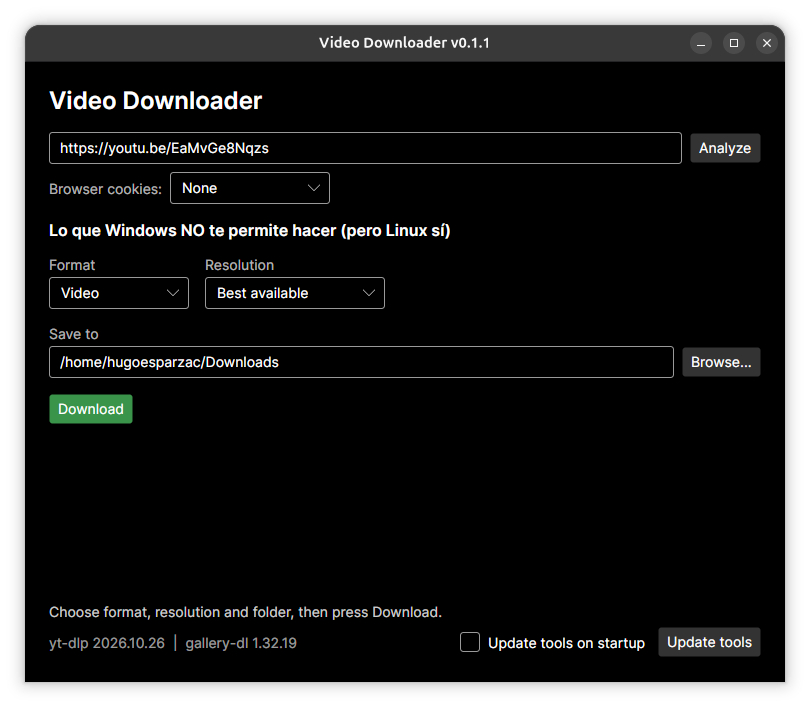
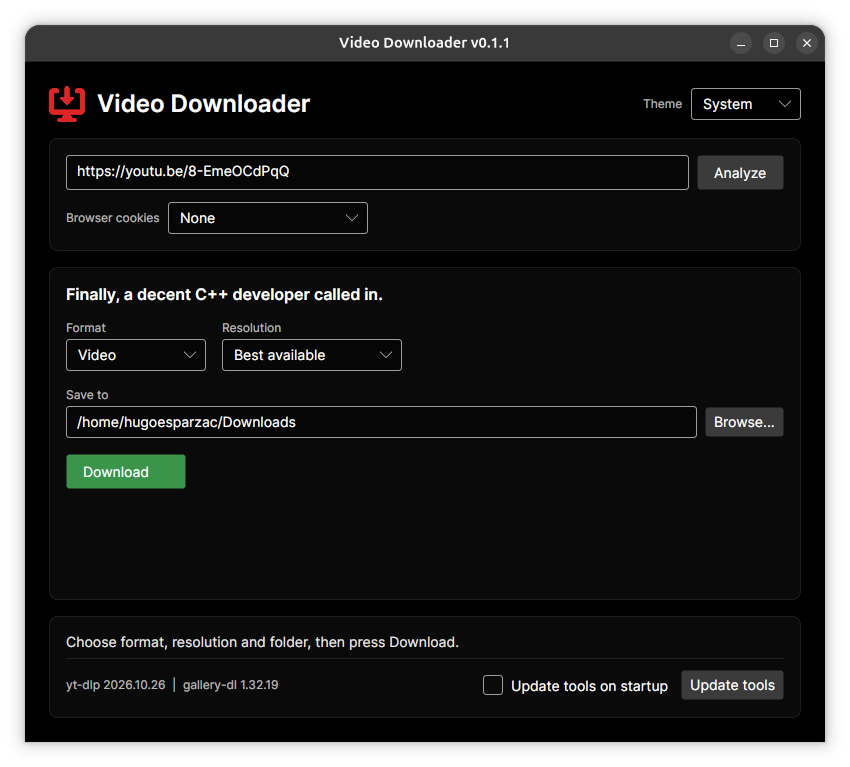
docs: add contributing guidelines and update project documentation
- Add a contributing guide with project contribution guidelines.
- Add GitHub issue and pull request templates.
- Update the README to document theme support.
- Add a link to the contributing guide in the README.

diff --git a/CONTRIBUTING.md b/CONTRIBUTING.md
@@ -1,0 +1,206 @@
+# Contributing to Video Downloader
+
+Thanks for your interest in improving Video Downloader! This guide explains how to set up the project, how the code is organized, and how to get a change merged.
+
+## Ways to contribute
+
+- **Report a bug** or a site that stopped working.
+- **Suggest a feature** or an improvement.
+- **Improve the docs** (README, this guide, translations of the UI).
+- **Send a pull request** with a fix or a new feature.
+
+For anything larger than a small fix, please open an issue first so we can agree on the approach before you spend time on it.
+
+## Reporting bugs
+
+Before opening an issue:
+
+1. Press **Update tools** in the app. yt-dlp and gallery-dl break regularly when sites change, and an update fixes most "it stopped working" reports.
+2. Check that the problem is not the sign-in requirement. Some content needs browser cookies (see the README). On Windows, Chrome, Edge and Brave cannot be read, so use Firefox.
+
+Then include in your issue:
+
+- App version (shown in the window title) and operating system.
+- What you did, what you expected and what happened.
+- The URL, if it is public. Do not share private links or anything that includes your account information.
+- The error message shown in the app.
+- If the app closed on its own, the crash log:
+  - Windows: `%LOCALAPPDATA%\VideoDownloader\logs\crash.log`
+  - Linux and macOS: `~/.local/share/VideoDownloader/logs/crash.log`
+
+Please review logs before posting them and remove personal data such as your user name in file paths.
+
+## Suggesting features
+
+Open an issue describing the problem you want to solve, not only the solution. Keep in mind the scope of the project: it is a friendly front end for yt-dlp and gallery-dl for personal use. Changes meant to bypass DRM or access controls will not be accepted.
+
+## Development setup
+
+### Requirements
+
+- The .NET SDK version specified in `global.json`.
+- Git.
+- Linux, Windows or macOS.
+
+### Getting the code
+
+```bash
+git clone https://github.com/hugoesparzac/VideoDownloader.git
+cd VideoDownloader
+dotnet tool restore
+dotnet husky install
+dotnet build
+dotnet test
+dotnet run --project src/VideoDownloader.App
+```
+
+`dotnet husky install` enables the git hooks described below. Please do not skip it, because the same checks run in CI and your pull request will fail without them.
+
+The first time the app runs it downloads yt-dlp and ffmpeg (and gallery-dl when needed) into your local data folder.
+
+## Project structure
+
+```
+src/
+  VideoDownloader.Core/   Download logic, settings, no UI dependency
+  VideoDownloader.App/    Avalonia UI (MVVM)
+tests/
+  VideoDownloader.Core.Tests/
+scripts/                  Packaging script (publish.sh)
+packaging/linux/          Linux installer and desktop entry
+docs/                     Screenshots and documentation assets
+```
+
+### Architecture
+
+- **Core** contains everything that is not UI: calling yt-dlp (through YoutubeDLSharp) and gallery-dl, file naming, settings, error hints. Services are exposed through interfaces (`IDownloadService`, `IImageDownloadService`, `ISettingsService`).
+- **App** is an Avalonia application using MVVM with CommunityToolkit.Mvvm. Dependencies are wired with `Microsoft.Extensions.DependencyInjection` in `App.axaml.cs`.
+- Anything that touches Avalonia types (folder picker, theme) lives behind an interface in `App/Services`, so view models stay free of UI types.
+- Put logic in **Core** whenever possible. It is covered by unit tests; the view models are not.
+
+## Code guidelines
+
+- All code, identifiers, comments and documentation are written in **English**.
+- Follow the `.editorconfig`. Analyzers are strict (`TreatWarningsAsErrors`), so warnings fail the build. Fix them instead of suppressing them. If a rule really does not make sense, discuss it in the pull request.
+- Nullable reference types are enabled. Avoid the null-forgiving operator (`!`).
+- Use `[ObservableProperty]` with **partial properties** and `[RelayCommand]` in view models.
+- Bindings in XAML are **compiled**: set `x:DataType` on views and data templates.
+- Always pass the `CancellationToken` through to long operations.
+- Run external tools with `ProcessStartInfo.ArgumentList`, never by building a command-line string. URLs come from users and must not be able to inject arguments.
+- Do not write empty `catch` blocks. Catch specific exceptions and explain in a comment why swallowing one is safe.
+- Downloads work in a temporary `.vd-tmp-*` folder inside the destination and move the finished file at the end. Keep that pattern so cancelling or failing never leaves partial files.
+- `settings.json` must stay backward compatible: when adding a setting, give it a default value so existing files keep working.
+
+## Tests
+
+```bash
+dotnet test
+```
+
+- Add unit tests for any new logic in Core. Test names may use underscores (`Method_Scenario_Result`).
+- Tests that need the network use `[ManualFact]` and only run when you ask for them:
+
+```bash
+RUN_MANUAL_TESTS=1 dotnet test --filter <TestName>
+```
+
+### Manual checks
+
+UI and download changes also need a quick manual check. Depending on your change, try:
+
+- A single video, an audio-only download and a playlist (including a private or deleted video, which must be skipped and reported).
+- An image post (for example a TikTok photo post).
+- Cancelling a download: no `.vd-tmp-*` folder or partial files should remain.
+- Downloading the same item twice: the second file must not overwrite the first.
+- Both themes (light and dark) if you touched the UI.
+
+File and process code behaves differently on Windows (locked files, path handling), so if you change it, please test on Windows as well as Linux if you can. macOS has not been tested by the maintainer yet; reports from macOS users are very welcome.
+
+To check the release packaging locally:
+
+```bash
+RIDS=linux-x64 ./scripts/publish.sh 0.0.0-dev
+```
+
+## Git workflow
+
+- `main` is stable and only receives releases.
+- `develop` is the integration branch.
+- Create your branch from `develop`, named after the type of change: `feat/short-name`, `fix/short-name`, `docs/short-name`, `refactor/short-name`, `chore/short-name`.
+- Open pull requests **against `develop`**.
+- Keep pull requests focused: one change per pull request.
+
+### Commit messages
+
+This project uses [Conventional Commits](https://www.conventionalcommits.org/), enforced by a git hook and checked in CI:
+
+```
+<type>(<optional-scope>): <short description>
+```
+
+| Type | Use for |
+|---|---|
+| `feat` | A new feature |
+| `fix` | A bug fix |
+| `docs` | Documentation only |
+| `style` | Formatting or visual changes that do not alter logic |
+| `refactor` | Code changes that neither fix a bug nor add a feature |
+| `perf` | Performance improvements |
+| `test` | Adding or fixing tests |
+| `chore` | Maintenance (versions, dependencies, configuration) |
+| `ci` | CI and workflows |
+| `build` | Build system, compilation, packaging, and distribution changes |
+
+Keep the title under 72 characters. Examples:
+
+```
+feat(core): add playlist download that skips failed items
+fix(app): show file errors instead of closing silently
+docs: add contributing guide
+ci: add release workflow for version tags
+```
+
+### Git hooks
+
+Husky.Net runs these checks automatically:
+
+- **pre-commit**: formats the staged `.cs` files with `dotnet format` (whitespace and style).
+- **commit-msg**: rejects messages that do not follow Conventional Commits.
+
+## Pull requests
+
+Before opening a pull request, make sure that:
+
+- [ ] `dotnet build` finishes without warnings.
+- [ ] `dotnet test` passes.
+- [ ] `dotnet format --verify-no-changes` reports nothing.
+- [ ] The **pull request title** follows Conventional Commits (it is checked automatically).
+- [ ] The description explains what changed and why, and links the related issue.
+- [ ] UI changes include a screenshot (light and dark if relevant).
+- [ ] User-visible changes are reflected in the README.
+
+Merged pull requests are the source of the release notes, so clear titles matter.
+
+## Releases (maintainers)
+
+1. Update `<Version>` in `Directory.Build.props` in a `chore: bump version to X.Y.Z` pull request into `develop`.
+2. Open a pull request from `develop` into `main` titled `chore: release X.Y.Z`.
+3. After it is merged, tag the commit on `main` and push the tag:
+
+```bash
+git checkout main && git pull
+git tag vX.Y.Z
+git push origin vX.Y.Z
+```
+
+The release workflow runs the tests, builds the packages for Linux, Windows and macOS, and creates the GitHub release with generated notes. A tag with a suffix (for example `v1.0.0-rc1`) is published as a pre-release.
+
+## Security
+
+If you find a security problem, please do not open a public issue. Use the repository's **Security** tab to report it privately, or contact the maintainer directly.
+
+## License
+
+By contributing, you agree that your contributions will be licensed under the project's license (see [LICENSE](LICENSE)).
+
+Hay tres cosas que debes revisar antes de subirlo:

diff --git a/README.md b/README.md
@@ -30,6 +30,7 @@ A cross-platform desktop app for downloading videos, audio and images from YouTu
 - Optional browser cookies for content that requires login
 - Built-in "Update tools" button, plus an optional check on startup, because sites change often
 - Remembers your folder, format and browser between sessions
+- Light, dark or system theme
 
 ## Installation
 
@@ -107,6 +108,10 @@ packaging/linux/          Linux installer and desktop entry
 - Commits follow [Conventional Commits](https://www.conventionalcommits.org/), enforced by a Husky git hook and checked on pull request titles.
 - Code style is enforced with `.editorconfig`, analyzers and `dotnet format` (pre-commit hook and CI).
 - CI builds and checks formatting on every push and pull request. Pushing a `v*` tag builds the packages and creates a GitHub release.
+
+## Contributing
+
+Contributions are welcome. Please read [CONTRIBUTING.md](CONTRIBUTING.md) first.
 
 ## Acknowledgments
 

diff --git a/.github/PULL_REQUEST_TEMPLATE.md b/.github/PULL_REQUEST_TEMPLATE.md
@@ -1,0 +1,23 @@
+## What does this change?
+
+<!-- Briefly describe the change and why it is needed. -->
+
+Closes #
+
+## Type of change
+
+<!-- Use the same type in the PR title (Conventional Commits). -->
+
+- [ ] feat
+- [ ] fix
+- [ ] docs, style, refactor, perf, test, chore or ci
+
+## Checklist
+
+- [ ] The PR title follows Conventional Commits
+- [ ] `dotnet build` has no warnings
+- [ ] `dotnet test` passes
+- [ ] `dotnet format --verify-no-changes` reports nothing
+- [ ] Tested manually (OS and what I tried):
+- [ ] UI changes include a screenshot (light and dark if relevant)
+- [ ] README updated if behavior changed
